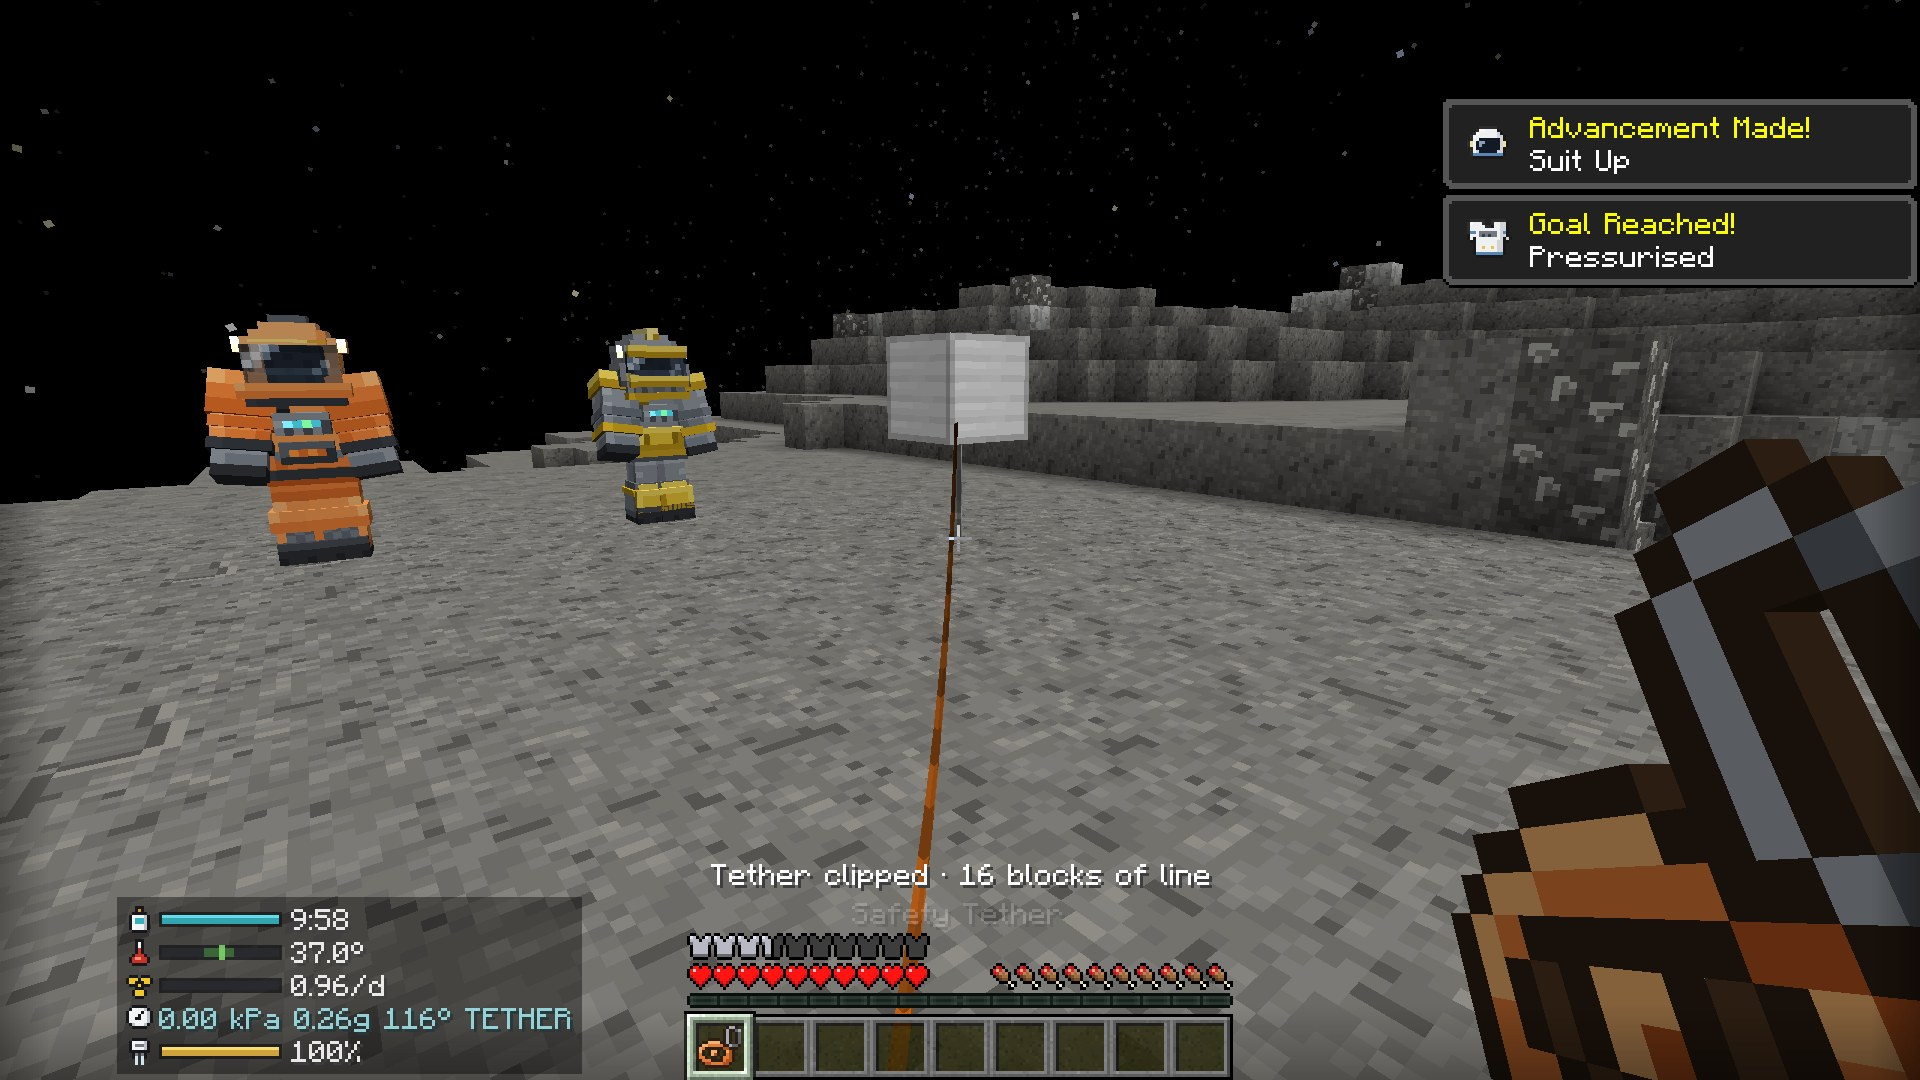
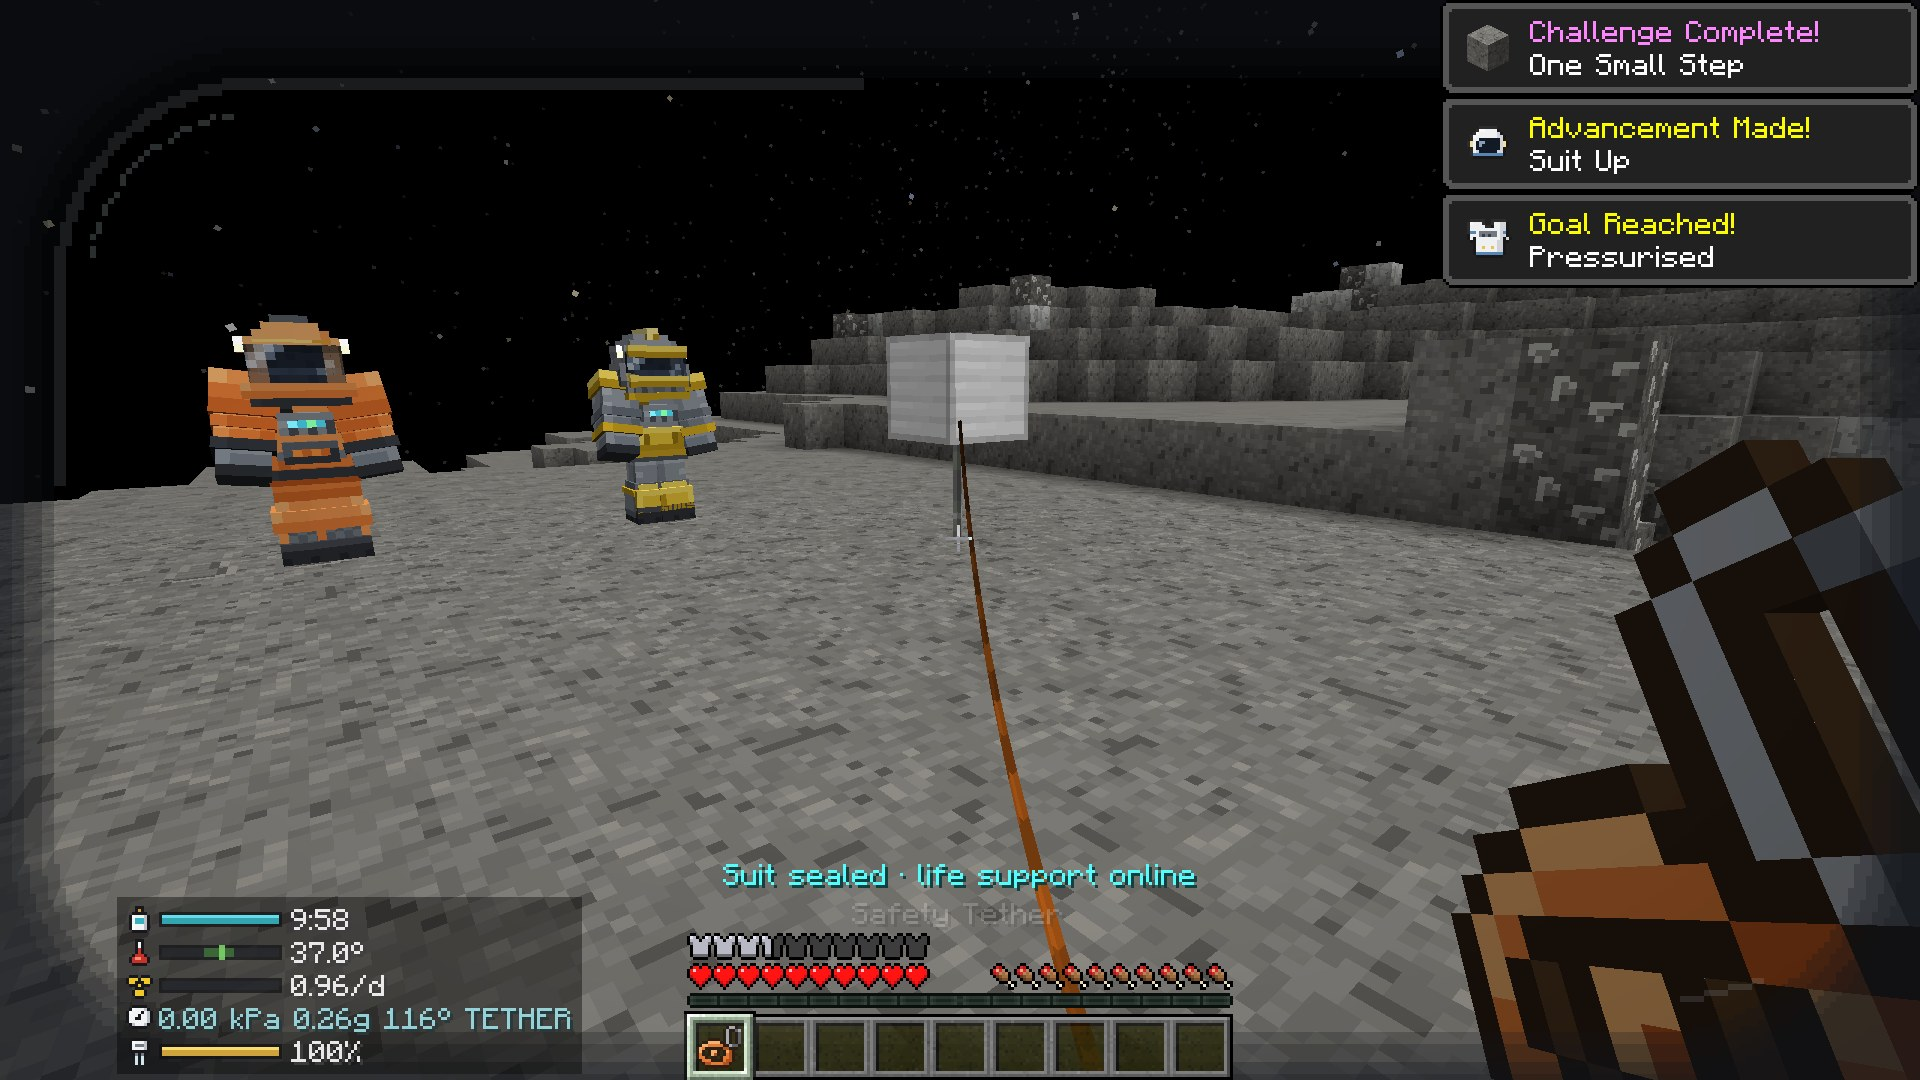
Visor frame: a rounded visor rim with glass reflections replaces the plain dark edges (GUI layer; config: visorFrame on/off, visorFrameOpacity); frost and gold filter no longer depend on it. SuitWear: shared API for environmental wear on suit pieces with an optional cap; GameTest

diff --git a/src/main/java/com/pizzaparker07/spacebreaker/content/suit/SuitWear.java b/src/main/java/com/pizzaparker07/spacebreaker/content/suit/SuitWear.java
@@ -1,0 +1,50 @@
+package com.pizzaparker07.spacebreaker.content.suit;
+
+import net.minecraft.world.entity.EquipmentSlot;
+import net.minecraft.world.entity.LivingEntity;
+import net.minecraft.world.item.ItemStack;
+
+/**
+ * Wear on EVA suit pieces from the environment (crushing pressure, micrometeorites, ...), for any module to use.
+ * Server side. Wear is plain item damage: the Suit Maintenance Station and an anvil mend it. A piece whose
+ * durability runs out leaks (the suit is no longer sealed), so hazards that must never trap the player pass a
+ * {@code maxFraction} below 1.
+ */
+public final class SuitWear {
+    private SuitWear() {
+    }
+
+    /**
+     * Adds {@code points} of wear to every worn suit piece, but never beyond {@code maxFraction} of its durability
+     * (1.0 = may wear it out completely). Returns how many pieces took wear.
+     */
+    public static int wearAll(LivingEntity wearer, int points, double maxFraction) {
+        int worn = 0;
+        for (EquipmentSlot slot : SuitProtection.SLOTS) {
+            if (wear(wearer.getItemBySlot(slot), points, maxFraction)) {
+                worn++;
+            }
+        }
+        return worn;
+    }
+
+    /** Adds wear to one worn piece ({@code slot}); true if it took any. */
+    public static boolean wearPiece(LivingEntity wearer, EquipmentSlot slot, int points, double maxFraction) {
+        return wear(wearer.getItemBySlot(slot), points, maxFraction);
+    }
+
+    static boolean wear(ItemStack stack, int points, double maxFraction) {
+        if (!(stack.getItem() instanceof SpaceSuitItem) || !stack.isDamageableItem() || points <= 0) {
+            return false;
+        }
+        int cap = (int) Math.floor(stack.getMaxDamage() * Math.min(1.0, maxFraction));
+        // a fully worn piece keeps one point so it stays in the slot (and leaks) instead of vanishing
+        cap = Math.min(cap, stack.getMaxDamage() - 1);
+        int next = Math.min(cap, stack.getDamageValue() + points);
+        if (next <= stack.getDamageValue()) {
+            return false;
+        }
+        stack.setDamageValue(next);
+        return true;
+    }
+}

diff --git a/tools/textures/modules/suit.py b/tools/textures/modules/suit.py
@@ -1144,9 +1144,47 @@ def visor_frost() -> Canvas:
     return cv
 
 
+def visor_frame() -> Canvas:
+    """Inside of the helmet seen in first person: a rounded visor opening (curved corners, a little more brow at the
+    top), the dark rim fading in over a few pixels in steps, and faint reflections of the visor glass along the
+    upper left curve and the lower right corner. 320 x 180, stretched over the screen; drawn on the GUI layer."""
+    w, h = 320, 180
+    cv = Canvas(w, h)
+    left, right, top, bottom, r = 9, w - 10, 13, h - 8, 34
+    rim = (16, 19, 24)
+
+    def outside(x, y):
+        """Distance outside the rounded opening (negative inside)."""
+        cx = min(max(x, left + r), right - r)
+        cy = min(max(y, top + r), bottom - r)
+        if left + r <= x <= right - r or top + r <= y <= bottom - r:
+            return max(left - x, x - right, top - y, y - bottom)
+        return ((x - cx) ** 2 + (y - cy) ** 2) ** 0.5 - r
+
+    for y in range(h):
+        for x in range(w):
+            d = outside(x + 0.5, y + 0.5)
+            if d >= 0:
+                step = min(3, int(d / 2.5))
+                cv[x, y] = (*rim, (90, 150, 205, 235)[step])
+            elif d > -2 and x < w * 0.45 and y < h * 0.45:
+                # glass edge catching light along the upper left
+                cv[x, y] = (196, 214, 228, 46)
+    # two short glints on the glass: an arc in the upper left corner, a dash in the lower right
+    for i in range(26):
+        a = 3.14159 * (1.05 + 0.4 * i / 25)
+        x = int(left + r + (r - 6) * __import__('math').cos(a))
+        y = int(top + r + (r - 6) * __import__('math').sin(a))
+        cv[x, y] = (226, 238, 246, 70)
+    for i in range(14):
+        cv[right - 30 + i, bottom - 6 - i // 4] = (226, 238, 246, 44)
+    return cv
+
+
 def export(save):
     save(hud_icons(), 'gui', 'hud_icons')
     save(visor_frost(), 'gui', 'visor_frost')
+    save(visor_frame(), 'gui', 'visor_frame')
     export_blocks(save)
     save(icon_small_tank(), 'item', 'oxygen_tank')
     save(oxygen_tank_model(), 'item', 'oxygen_tank_model')

diff --git a/src/main/java/com/pizzaparker07/spacebreaker/client/hud/HelmetHud.java b/src/main/java/com/pizzaparker07/spacebreaker/client/hud/HelmetHud.java
@@ -61,20 +61,18 @@ public final class HelmetHud {
 
     static void renderFrame(GuiGraphics g, DeltaTracker delta) {
         Minecraft mc = Minecraft.getInstance();
-        if (!active(mc) || !HudConfig.visorFrame()) {
+        if (!active(mc)) {
             return;
         }
         int w = g.guiWidth();
         int h = g.guiHeight();
-        int band = Math.max(8, h / 14);
-        // soft dark edges, a little heavier at the top where the helmet's brow is
-        g.fillGradient(0, 0, w, band + 4, 0x70000000, 0x00000000);
-        g.fillGradient(0, h - band, w, h, 0x00000000, 0x50000000);
-        int side = Math.max(6, w / 40);
-        for (int i = 0; i < side; i++) {
-            int a = (int) (0x48 * (1.0 - (double) i / side));
-            g.fill(i, 0, i + 1, h, a << 24);
-            g.fill(w - 1 - i, 0, w - i, h, a << 24);
+        if (HudConfig.visorFrame()) {
+            // the rounded visor rim with its glass reflections, stretched over the screen
+            RenderSystem.enableBlend();
+            g.setColor(1F, 1F, 1F, HudConfig.visorFrameOpacity());
+            g.blit(FRAME, 0, 0, 0, 0, w, h, w, h);
+            g.setColor(1F, 1F, 1F, 1F);
+            RenderSystem.disableBlend();
         }
         ItemStack helmet = mc.player.getItemBySlot(EquipmentSlot.HEAD);
         if (SpaceSuitItem.isSunVisorDown(helmet)
@@ -92,6 +90,7 @@ public final class HelmetHud {
         }
     }
 
+    private static final ResourceLocation FRAME = Spacebreaker.id("textures/gui/visor_frame.png");
     private static final ResourceLocation FROST = Spacebreaker.id("textures/gui/visor_frost.png");
     private static float frostLevel, frostPrev;
 

diff --git a/src/main/java/com/pizzaparker07/spacebreaker/client/hud/HudConfig.java b/src/main/java/com/pizzaparker07/spacebreaker/client/hud/HudConfig.java
@@ -8,13 +8,15 @@ public final class HudConfig {
     public static final ModConfigSpec.BooleanValue ENABLED;
     public static final ModConfigSpec.DoubleValue OPACITY;
     public static final ModConfigSpec.BooleanValue VISOR_FRAME;
+    public static final ModConfigSpec.DoubleValue VISOR_FRAME_OPACITY;
 
     static {
         ModConfigSpec.Builder b = new ModConfigSpec.Builder();
         b.push("hud");
         ENABLED = b.comment("Show the helmet HUD while wearing an EVA helmet.").define("enabled", true);
         OPACITY = b.comment("Opacity of the helmet HUD (0.2 - 1.0).").defineInRange("opacity", 0.9, 0.2, 1.0);
-        VISOR_FRAME = b.comment("Darken the screen edges like the inside of a visor.").define("visorFrame", true);
+        VISOR_FRAME = b.comment("Show the visor frame (rounded rim with glass reflections) around the screen in first person.").define("visorFrame", true);
+        VISOR_FRAME_OPACITY = b.comment("Opacity of the visor frame (0.1 - 1.0).").defineInRange("visorFrameOpacity", 0.7, 0.1, 1.0);
         b.pop();
         SPEC = b.build();
     }
@@ -28,6 +30,10 @@ public final class HudConfig {
 
     public static float opacity() {
         return SPEC.isLoaded() ? OPACITY.get().floatValue() : 0.9F;
+    }
+
+    public static float visorFrameOpacity() {
+        return SPEC.isLoaded() ? VISOR_FRAME_OPACITY.get().floatValue() : 0.7F;
     }
 
     public static boolean visorFrame() {

diff --git a/src/testmod/java/com/pizzaparker07/spacebreaker/testmod/suit/SuitTierGameTests.java b/src/testmod/java/com/pizzaparker07/spacebreaker/testmod/suit/SuitTierGameTests.java
@@ -225,4 +225,18 @@ public final class SuitTierGameTests {
         helper.assertTrue(bodyTarget(p, VENUS_C, VENUS_KPA) == SurvivalData.NORMAL_BODY_C, "and still keeps the body at 37 °C");
         helper.succeed();
     }
+
+    @GameTest(template = EMPTY)
+    public static void suitWearApiRespectsItsLimit(GameTestHelper helper) {
+        Player p = wearing(helper, GameType.SURVIVAL, set(SuitTier.MK1));
+        ItemStack boots = p.getItemBySlot(EquipmentSlot.FEET);
+        helper.assertTrue(com.pizzaparker07.spacebreaker.content.suit.SuitWear.wearAll(p, 3, 1.0) == 4, "all four pieces take wear");
+        helper.assertTrue(boots.getDamageValue() == 3, "three points of wear, got " + boots.getDamageValue());
+        com.pizzaparker07.spacebreaker.content.suit.SuitWear.wearPiece(p, EquipmentSlot.FEET, 100000, 0.5);
+        helper.assertTrue(boots.getDamageValue() == (int) Math.floor(boots.getMaxDamage() * 0.5), "capped at half, got " + boots.getDamageValue());
+        com.pizzaparker07.spacebreaker.content.suit.SuitWear.wearPiece(p, EquipmentSlot.FEET, 100000, 1.0);
+        helper.assertTrue(!boots.isEmpty() && boots.getDamageValue() == boots.getMaxDamage() - 1, "worn out but still worn");
+        helper.assertFalse(SpaceSuitItem.isSealed(p), "a worn-out piece leaks");
+        helper.succeed();
+    }
 }

diff --git a/src/main/java/com/pizzaparker07/spacebreaker/content/suit/LifeSupport.java b/src/main/java/com/pizzaparker07/spacebreaker/content/suit/LifeSupport.java
@@ -76,12 +76,7 @@ public final class LifeSupport {
         if (!hazards || pressureKpa < STRAIN_KPA || player.tickCount % STRAIN_WEAR_TICKS != 0 || !SpaceSuitItem.isSealed(player)) {
             return;
         }
-        for (EquipmentSlot slot : SuitProtection.SLOTS) {
-            ItemStack stack = player.getItemBySlot(slot);
-            if (stack.isDamageableItem() && stack.getDamageValue() + 1 <= stack.getMaxDamage() * STRAIN_WEAR_LIMIT) {
-                stack.setDamageValue(stack.getDamageValue() + 1);
-            }
-        }
+        SuitWear.wearAll(player, 1, STRAIN_WEAR_LIMIT);
     }
 
     // ------------------------------------------------------------------ oxygen
